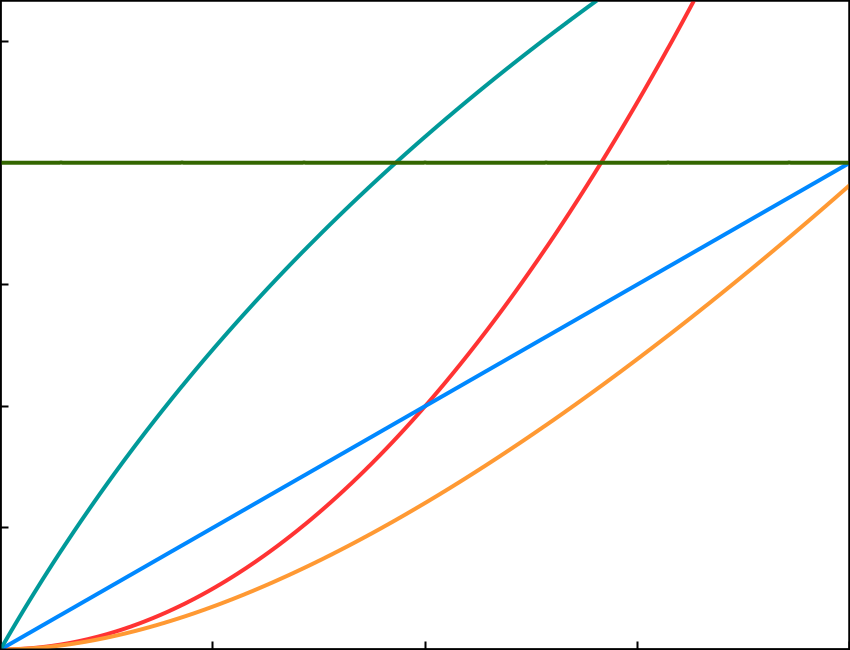
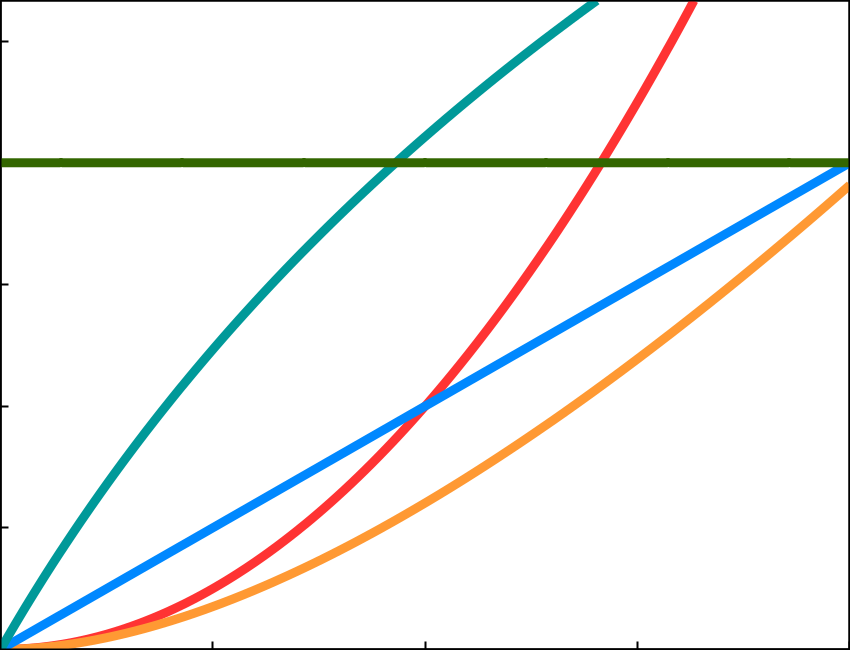
Better complexity zoom

diff --git a/vacation.html b/vacation.html
@@ -586,7 +586,7 @@ def pic_sequence(pix):
     </div>
     <img class="incremental" src="graph_complexity_zoom.png" style="position:absolute;right:1em;bottom:3em;width:40%"/>
     <!--
-    https://graphsketch.com/?eqn1_color=2&eqn1_eqn=x*x&eqn2_color=4&eqn2_eqn=2*x*log(x)&eqn3_color=1&eqn3_eqn=x&eqn4_color=6&eqn4_eqn=7*log(x)&eqn5_color=3&eqn5_eqn=2&eqn6_color=6&eqn6_eqn=&x_min=0&x_max=30&y_min=0&y_max=40&x_tick=100&y_tick=100&x_label_freq=50&y_label_freq=50&do_grid=0&bold_labeled_lines=0&line_width=4&image_w=850&image_h=650
+    https://graphsketch.com/?eqn1_color=2&eqn1_eqn=x*x&eqn2_color=4&eqn2_eqn=2*x*log(x%2B1)&eqn3_color=1&eqn3_eqn=x&eqn4_color=6&eqn4_eqn=7*log(x%2B1)&eqn5_color=3&eqn5_eqn=2&eqn6_color=6&eqn6_eqn=&x_min=0&x_max=2&y_min=0&y_max=2.6666&x_tick=100&y_tick=100&x_label_freq=50&y_label_freq=50&do_grid=0&bold_labeled_lines=0&line_width=9&image_w=850&image_h=650
     -->
 </div>
 
